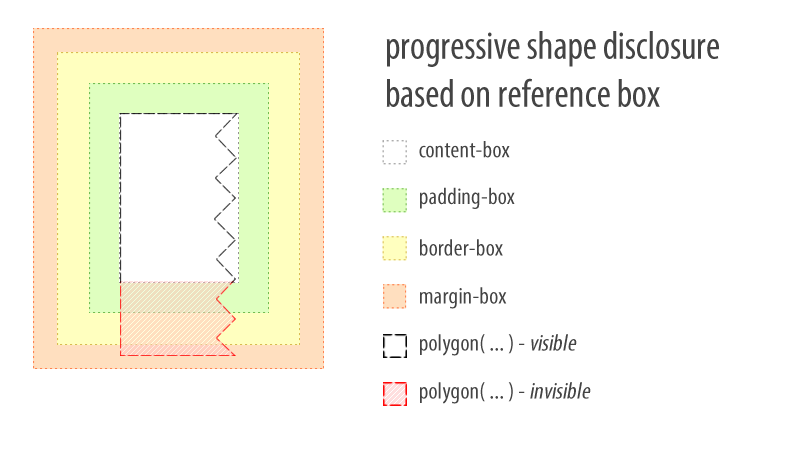
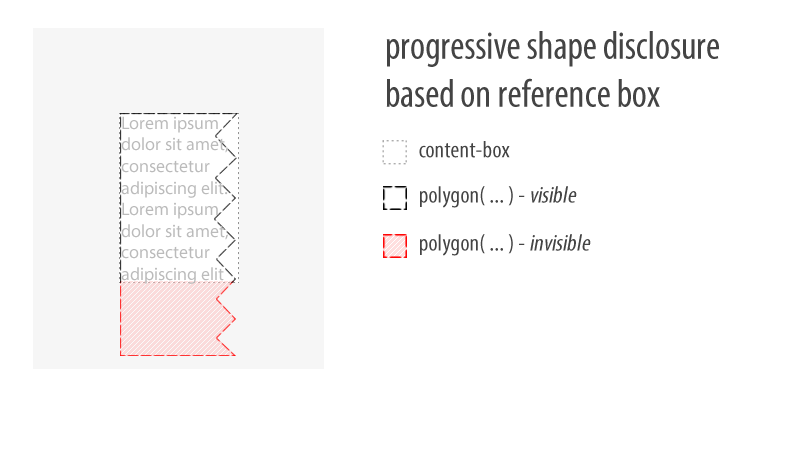
edits after reviwer feedback; add more illustrations

diff --git a/src/writing/css-shapes-reference-boxes/understanding-reference-box.md b/src/writing/css-shapes-reference-boxes/understanding-reference-box.md
@@ -23,11 +23,11 @@ We'll consider a simple circle shape around which we will wrap content. We'll us
 
 ## The margin-box
 
-If unspecified, the default reference box for a shape is `margin-box`. The CSS shape rule above is equivalent to `shape-outside: circle(50%) margin-box;`.
+If unspecified, the default reference box for a shape is `margin-box`. The CSS shape declaration above is equivalent to `shape-outside: circle(50%) margin-box;`.
 
-The `margin-box` reference box means that a shape is positioned in a virtual box defined by the outer edges of the host element's margin. The origin of the coordinate system is at the upper left corner of this box, with the X axis going from left to right and the Y axis going from top to bottom.
+The `margin-box` reference box means that a shape is positioned in a virtual box defined by the outer edges of the host element's margin. The origin of the coordinate system is at the upper-left corner of this box, with the X axis going from left to right and the Y axis going from top to bottom.
 
-We didn't specify a margin in our sample yet, so the `margin-box` reference box does not extend beyond the element. It's still ok to imagine the origin of the coordinate system for the shape placed at the upper-left corner of the element.
+We didn't specify a margin in our sample yet, so the `margin-box` reference box does not extend beyond the element's content area. It's still ok to imagine the origin of the coordinate system for the shape placed at the upper-left corner of the element.
 
 At this point, the circle's 50% radius yields an actual length of 50px (half the element's width or height).
 
@@ -45,16 +45,20 @@ The shape changes when we do specify a margin.
 
 After setting `margin: 50px`, the `margin-box` reference box extends around the element by 50px in all directions. It builds on the element's dimensions, so the reference box becomes 200px by 200px.
 
-The circle's 50% radius now means 100px and the origin is outside the element, at the upper left corner of the box defined by the margin.
+The circle's 50% radius now yields an actual length of 100px and the origin is outside the element’s content area, at the upper left corner of the box defined by the margin.
 
 ![margin-box reference box for circle() shape function](margin-box_reference-box.png)
 
 
 We use the `margin-box` reference box when it's important to wrap content around a shape which stretches beyond the dimensions of the host element.
 
+### Margins and shapes
+
+It's __very important__ to understand that all reference boxes define coordinate systems for shapes, but only the `margin-box` reference box actually clips the shape. This means that shapes larger than other reference boxes will eventually be clipped by the `margin-box`. Therefore, an element's margin can be used to increase the surface where the shape will draw, if it extends beyond other reference boxes.
+
 ## The border-box
 
-As its name implies, the `border-box` reference box constrains the shape's coordinate system to the box defined by the outer edges of the element's border. In this case, the shape may overlap the element's border, but it can't extend beyond it.
+As its name implies, the `border-box` reference box constrains the shape's coordinate system to the box defined by the outer edges of the element's border. In this case, the shape may overlap the element's border, and can extend beyond it if there is a margin around the element.
 
 ```css
 .shape{
@@ -141,15 +145,26 @@ That was the predictable case. However, if one of the dimensions isn't defined, 
 
 Notice that we commented-out the explicit `height` property. Now, the `content-box` reference box depends on the amount of content within the element with the "shape" class. Different `font-size` values or relative size units will also have an impact on the reference box.
 
-For simplicity's sake, in the examples so far, we used dimensions that get us a a square element. In those cases the circle's radius would equate to half the square's edge. However, computing radii as percentage units for `circle()` and `ellipse()` depends on a slightly more complicated [formula](http://www.w3.org/TR/css-shapes/#funcdef-circle): sqrt(width<sup>2</sup> +height<sup>2</sup>)/sqrt(2). This becomes important for understanding and mentally visualizing the `content-box` reference box when the amount of content can influence one or both dimensions.
+### Variable dimension reference boxes
+For simplicity's sake, in the examples so far, we used dimensions that get us a a square element. In those cases the circle's radius would equate to half the square's edge.
+
+However, computing radii as percentage units for `circle()` and `ellipse()` depends on a slightly more complicated [formula](http://www.w3.org/TR/css-shapes/#funcdef-circle): sqrt(width<sup>2</sup> +height<sup>2</sup>)/sqrt(2). This is a special case only for `circle()` and `ellips()` radii; other shape functions, like `polygon()`, are not constrained by this.
+
+Understanding this formula becomes important for mentally visualizing the `content-box` reference box when the amount of content can influence one or both dimensions. It's worth noting that this case of variable dimension applies with the other reference boxes as well, it's not endemic to `content-box`.
 
 ![inferred content-box reference box for circle() shape function](content-box-inferred_reference-box.png)
+
+In the illustration above we observe that the circle does not touch the content-box top and bottom edges yet it extends beyond its left and right edges. This is expected and happens because of two reasons: 1) the radius is computed out of the element dimensions with the formula mentioned above, and 2) we omitted defining where the circle's center should be, so the default was used &mdash; the center of the coordinate system (the intersection of the element's diagonals in this case).
 
 At first glance, it looks like the `content-box` reference box is too much of a hassle to be worthwhile. However, there is a valid use case: progressive shape disclosure. This means we can create a shape which is much larger than what's immediately needed or visible, but as the amount of content increases more of the shape gets revealed.
 
 Imagine using `polygon()` to create a saw-like shape which runs down along the side of the element. CSS Shapes do not yet have a "repeat" property. Using progressive shape disclosure with the `content-box` reference box is a way to achieve the same effect using larger shapes composed of a repeated pattern.
 
 ![progressive shape disclosure based on content-box reference box size](progressive-shape-disclosure.png)
+
+Remember, the `margin-box` does the actual clipping of oversized shapes. If there is a margin around the element, the shape may extend beyond the `content-box`, only to be clipped by the `margin-box`.
+
+![progressive shape disclosure based on content-box reference box size, but influenced by margin-box](progressive-shape-disclosure_margin-box.png)
 
 ## Creating shapes from reference boxes
 
@@ -191,5 +206,7 @@ reference box | if default `box-sizing` | if `box-sizing: border-box`
 Reference boxes help us control the sizing and positioning of CSS Shapes.
 
 They abstract away some of the complexity of coordinate systems and free us from having to manually define dimensions for each element. This contributes to making responsive shapes which are portable both across screens and between projects.
+
+Many thanks to [Alan Stearns](https://twitter.com/alanstearns) and [Sara Soueidan](https://twitter.com/sarasoueidan) for reviewing this article.
 
 Have fun!
